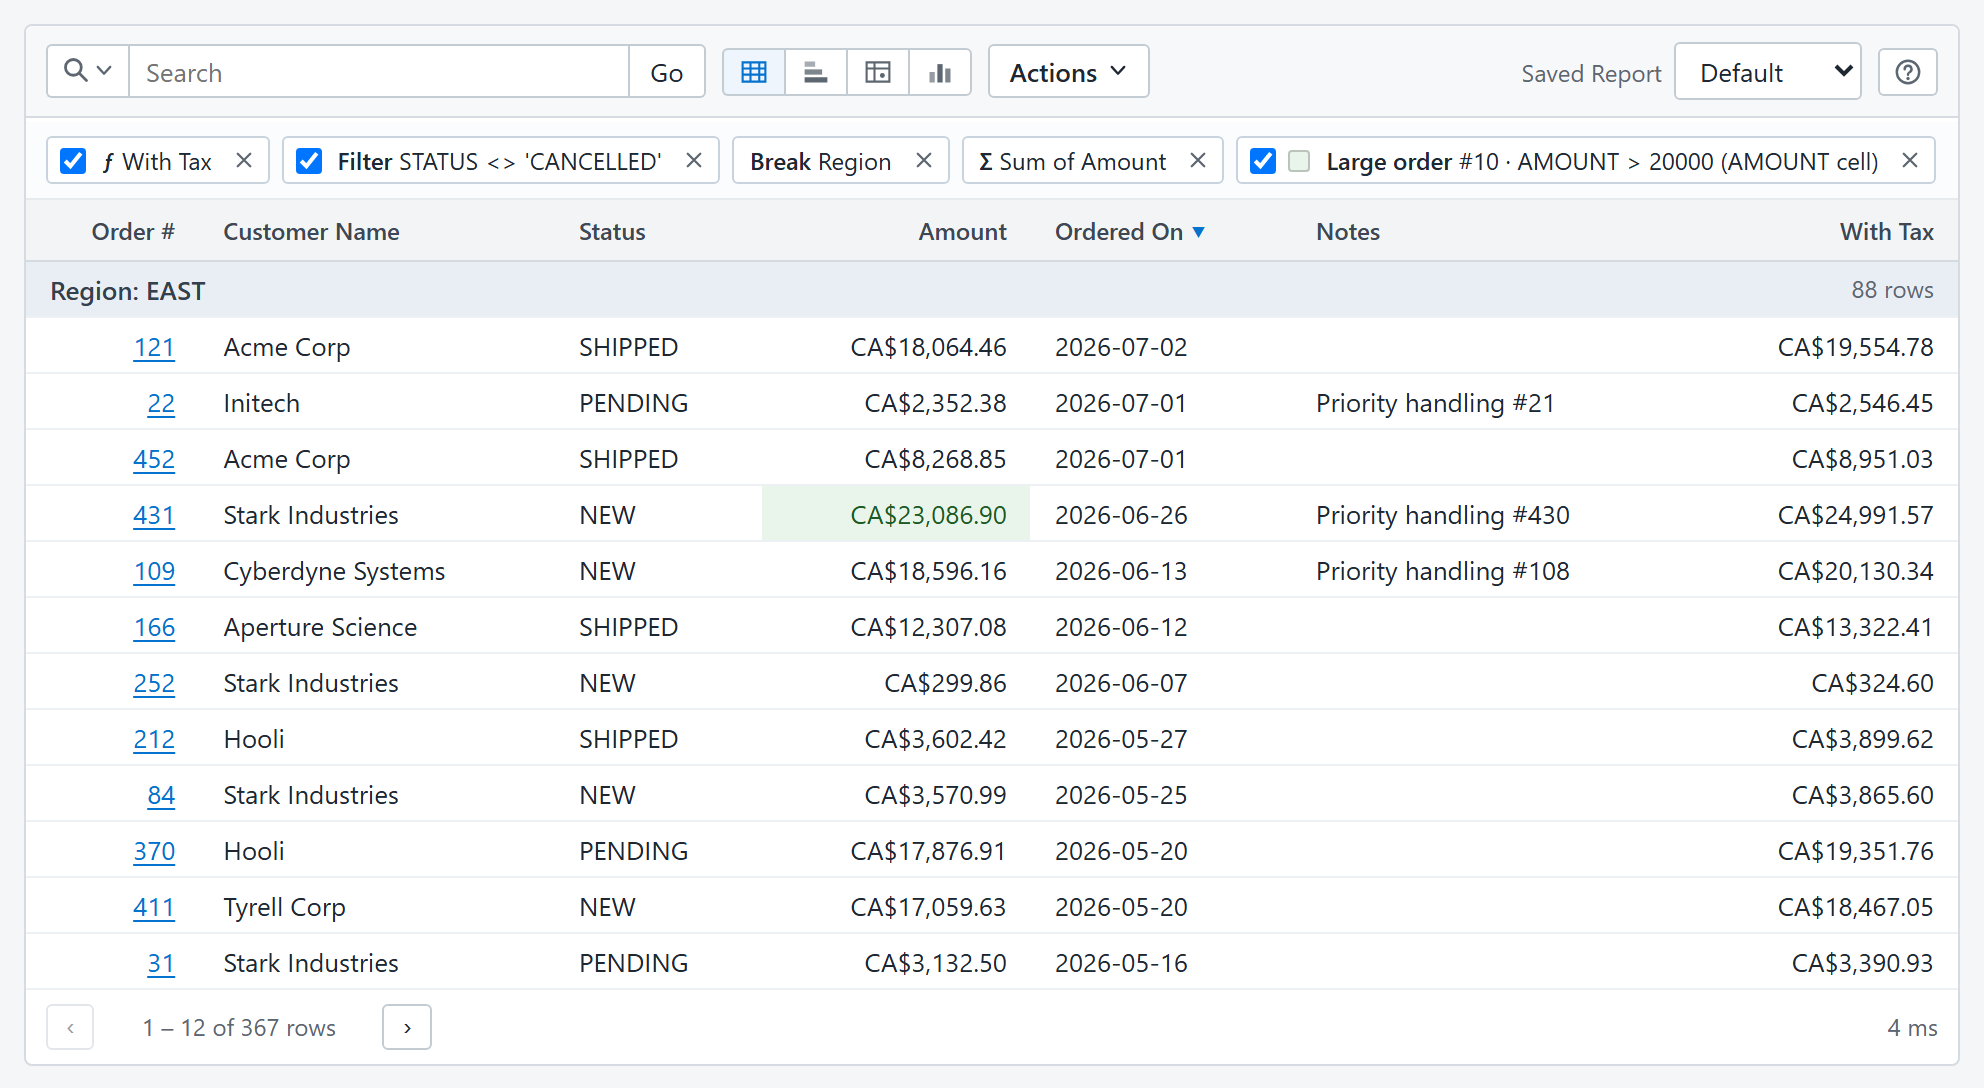
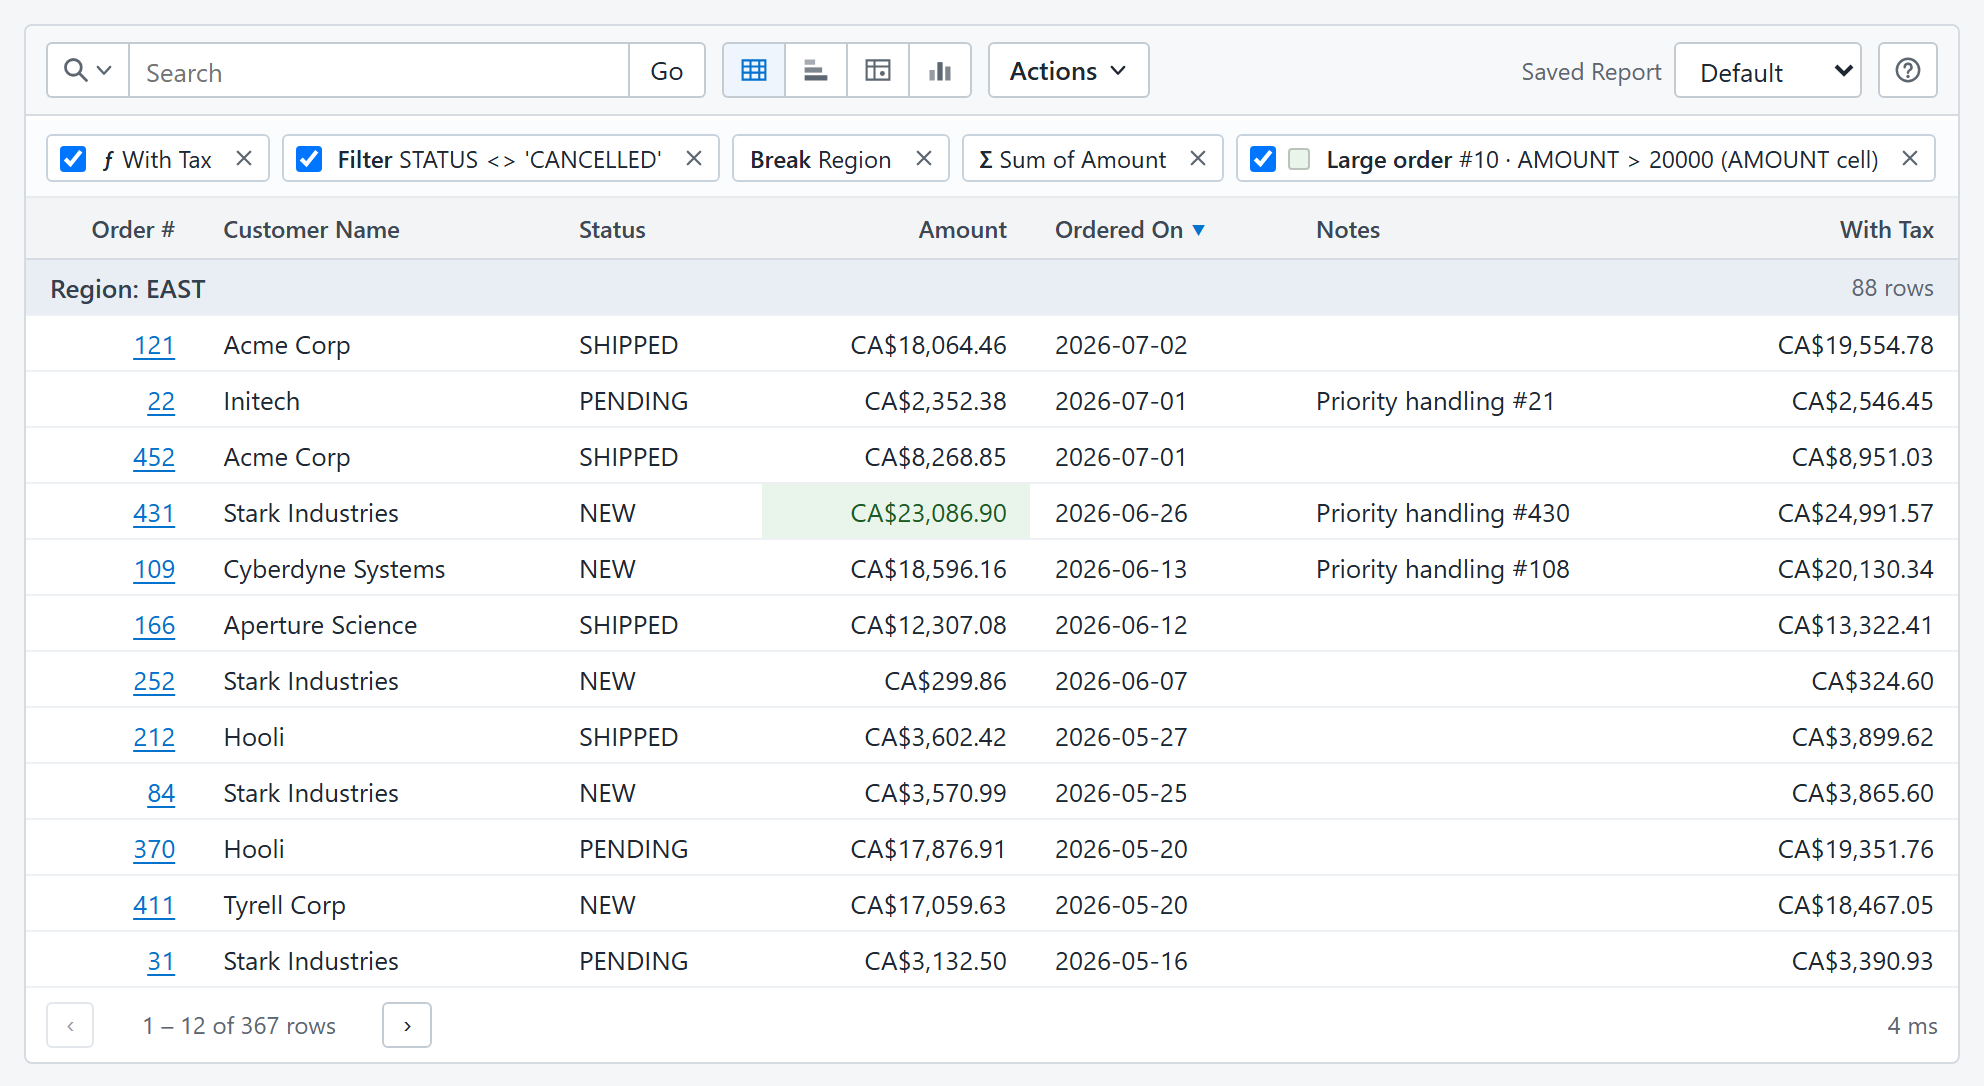
Prepare v0.9.1: screenshots, tests & TFM bumps
Bump project to v0.9.1 and update developer workflows. Add docs screenshot tooling (scripts/build-screenshots.mjs), integrate screenshot capture into help build, and add Windows/Linux badges. Revise package.json scripts (build:dotnet, build:screenshots, start, test:e2e/test:all, pack:nuget/release:nuget) and update PowerShell pack/release callers. Improve demo bundling with a sql.js shim. Bump Workbench and test projects to net10.0. Change in-memory saved-report store to track a default per-definition (plus server/listing adjustments) and add a test for per-report defaults. Minor CSS and demo HTML tweaks and several refreshed doc images.

diff --git a/src/client/ir.css b/src/client/ir.css
@@ -100,7 +100,13 @@
     border-radius: 4px 4px 0 0;
 }
 
-.ir-search { display: inline-flex; align-items: stretch; }
+.ir-toolbar .ir-btn,
+.ir-toolbar .ir-search-input,
+.ir-toolbar .ir-select {
+    height: max(28px, calc(var(--ir-font-size) * 1.35 + 10px));
+}
+
+.ir-search { display: inline-flex; align-items: stretch; margin: 0; }
 .ir-search .ir-search-scope {
     border-radius: var(--ir-radius) 0 0 var(--ir-radius);
     border-right: none;
@@ -119,14 +125,14 @@
 .ir-search .ir-go { border-radius: 0 var(--ir-radius) var(--ir-radius) 0; border-left: none; }
 
 .ir-viewbtns { display: inline-flex; }
-.ir-viewbtn { border-radius: 0; border-right-width: 0; color: var(--ir-text-muted); padding: 4px 8px; }
+.ir-viewbtn { border-radius: 0; border-right-width: 0; color: var(--ir-text-muted); padding: 4px 8px; justify-content: center; }
 .ir-viewbtn:first-child { border-radius: var(--ir-radius) 0 0 var(--ir-radius); }
 .ir-viewbtn:last-child { border-radius: 0 var(--ir-radius) var(--ir-radius) 0; border-right-width: 1px; }
 .ir-viewbtn[aria-pressed="true"] { background: var(--ir-accent-soft); color: var(--ir-accent); }
 
 .ir-actionsbtn { font-weight: 500; }
 .ir-spacer { flex: 1; }
-.ir-helpbtn { color: var(--ir-text-muted); padding: 4px 7px; }
+.ir-helpbtn { color: var(--ir-text-muted); padding: 4px 7px; justify-content: center; }
 .ir-helpbtn:hover:not(:disabled) { color: var(--ir-accent); }
 
 /* The Help window hosts the generated user guide, which carries its own .ir-help styles. */

diff --git a/src/browser-server/saved-reports.js b/src/browser-server/saved-reports.js
@@ -3,32 +3,36 @@
 
 export class EphemeralSavedReportStore {
     constructor() {
-        this.nextId = 2; // ID 1 reserved for default report
+        this.nextId = 1;
         /** @type {Map<number, object>} */
         this.reports = new Map();
-        /** @type {Set<string>} */
-        this.initializedReports = new Set();
+        /** @type {Map<string, number>} */
+        this.defaultReportIds = new Map();
     }
 
     /**
      * Ensures the default report is present for the given family.
      *
      * @param {string} reportName
+     * @param {object} [defaultState={}]
      */
-    ensureDefault(reportName) {
-        if (this.initializedReports.has(reportName.toLowerCase())) return;
-        this.initializedReports.add(reportName.toLowerCase());
+    ensureDefault(reportName, defaultState = {}) {
+        const key = String(reportName || "").toLowerCase();
+        if (this.defaultReportIds.has(key)) return;
+
+        const id = this.nextId++;
+        this.defaultReportIds.set(key, id);
 
         const defaultReport = {
-            id: 1,
+            id,
             reportName,
             title: "Default",
             isDefault: true,
             isGlobal: true,
             createdBy: "system",
-            state: {},
+            state: defaultState ? JSON.parse(JSON.stringify(defaultState)) : {},
         };
-        this.reports.set(1, defaultReport);
+        this.reports.set(id, defaultReport);
     }
 
     /**

diff --git a/tests/browser-server/server.test.js b/tests/browser-server/server.test.js
@@ -355,3 +355,25 @@ test("installFetchInterceptor routes /api/reports calls in-process", async () =>
         interceptor.uninstall();
     }
 });
+
+test("switching between multiple reports preserves default document for each", async () => {
+    const { server } = await setupServer();
+    server.registerReport({
+        name: "big-orders",
+        title: "Big Orders",
+        sql: "SELECT ORDER_ID, AMOUNT FROM ORDERS",
+    });
+
+    // 1. Initial list for orders has default
+    const ordersList1 = await server.handleRequest("/api/reports/orders").then(r => r.json());
+    assert.ok(ordersList1.some(r => r.isDefault && r.reportName === "orders"));
+
+    // 2. Switch to big-orders: has its own default
+    const bigList = await server.handleRequest("/api/reports/big-orders").then(r => r.json());
+    assert.ok(bigList.some(r => r.isDefault && r.reportName === "big-orders"));
+
+    // 3. Switch back to orders: must still have its default report!
+    const ordersList2 = await server.handleRequest("/api/reports/orders").then(r => r.json());
+    assert.ok(ordersList2.some(r => r.isDefault && r.reportName === "orders"));
+    assert.notEqual(ordersList1[0].id, bigList[0].id);
+});

diff --git a/src/browser-server/server.js b/src/browser-server/server.js
@@ -62,6 +62,7 @@ export class InteractiveReportServer {
         const key = def.name.toLowerCase();
         this.definitions.set(key, { ...def });
         this.schemaCache.delete(key);
+        this.savedReports.ensureDefault(def.name, def.defaultState);
     }
 
     /**
@@ -301,7 +302,7 @@ export class InteractiveReportServer {
             if (listMatch && method === "GET") {
                 const name = decodeURIComponent(listMatch[1]);
                 // If name is a registered definition or recognized family:
-                if (this.definitions.has(name.toLowerCase()) || this.savedReports.initializedReports.has(name.toLowerCase())) {
+                if (this.definitions.has(name.toLowerCase()) || this.savedReports.defaultReportIds.has(name.toLowerCase())) {
                     const list = this.savedReports.list(name);
                     return jsonResponse(list);
                 }

diff --git a/src/demo/index.html b/src/demo/index.html
@@ -134,9 +134,6 @@
                 Interactive Reports
                 <span class="badge">SQLite WASM (In-Browser)</span>
             </h1>
-            <p class="subtitle">
-                Pure client-side JavaScript port of the C# Interactive Reports server. No backend required.
-            </p>
         </div>
         <div class="controls">
             <label for="report-select"><strong>Report:</strong></label>

diff --git a/docs/DEVELOPING.md b/docs/DEVELOPING.md
@@ -1,27 +1,37 @@
 # Developing
 
 The client-side source is in `src/client`; generated browser assets are written to
-`src/InteractiveReport.Client.Json/Ui/dist` for embedding by the server project. Install
-the toolchain and create the browser bundles with:
+`src/InteractiveReport.Client.Json/Ui/dist` for embedding by the server project. With
+Node.js 20 or later and the .NET 10 SDK installed, install the dependencies and
+Playwright's Chromium browser, build the browser assets, packaged help, and .NET
+solution, then start Workbench with:
 
 ```sh
 npm ci
+npx playwright install chromium
 npm run build
+npm run start
 ```
 
-`npm run dev` rebuilds on changes. `npm test` builds the client and runs the fast
-DOM unit tests. Browser automation is configured with Playwright; install Chromium
-once with `npx playwright install chromium`, then run `npm run test:ui`.
-`npm run verify` runs both test layers.
+Workbench runs at `http://127.0.0.1:5042`; stop it with Ctrl+C.
+On Linux, replace the Playwright installation command with
+`npx playwright install --with-deps chromium` so Chromium's system libraries are
+installed as well. Windows and Linux both support the normal build, Workbench, and
+test workflows.
+
+`npm run start:dev` (or `npm run build:watch`) rebuilds on changes. `npm test` builds
+the client and runs the fast DOM unit tests and SQLite server tests. Browser automation
+is configured with Playwright; run `npm run test:e2e` for that layer.
+`npm run test:all` runs all test layers.
 
 The generated `src/InteractiveReport.Client.Json/Ui/dist/ir.js`, `ir-admin.js`, and
 `ir-chart.js` files are embedded in the ASP.NET Core assembly and are deliberately
 not committed. A source checkout must run the client build before a Release build,
 a pack, or a run of the packaged UI — `dotnet pack` and `dotnet build -c Release`
 fail with instructions when the bundles are missing, so a UI-less package cannot
-ship silently. `scripts/pack.ps1` (also `npm run pack`) chains the client build, the
-fast test layers, and `dotnet pack` for the five distributable projects into
-`artifacts/packages`; publishing beyond that is currently a manual
+ship silently. NuGet packaging is a Windows workflow. `scripts/pack.ps1` (also
+`npm run pack:nuget`) chains the client build, the fast test layers, and `dotnet pack`
+for the five distributable projects into `artifacts/packages`; publishing beyond that is currently a manual
 `dotnet nuget push` (release automation is deliberately still open).
 Package consumers never need Node.js. `ir-chart.js` (the Chart.js-based chart
 renderer) is fetched on demand the first time a report enters chart view; pages
@@ -29,7 +39,7 @@ that never chart never load it.
 
 ## Cutting a release locally
 
-`scripts/release.ps1` (also `npm run release`) runs the pack pipeline and drops a
+On Windows, `scripts/release.ps1` (also `npm run release:nuget`) runs the pack pipeline and drops a
 complete, versioned package set into `releases/<version>/`: the five `.nupkg` files,
 their `.snupkg` symbol packages, and a `SHA256SUMS.txt` manifest. The version comes
 from `Directory.Build.props`; pass `-Version 1.0.0-rc.1` to override it for one run,
@@ -43,13 +53,14 @@ GitHub release job is deliberately still open.
 The [User Guide](USER-GUIDE.md) is also the in-app help: `npm run build:help`
 (part of `npm run build`) renders it to `Ui/dist/help.<locale>.html` with the
 screenshots inlined as lossless WebP, and the report's **?** button opens that page in
-a window. Regenerate the screenshots from the live Workbench with:
+a window. Regenerate the screenshots from a temporary Workbench instance with:
 
 ```sh
-dotnet run --project samples/Workbench --urls http://127.0.0.1:5042
-npm run docs:screenshots
+npm run build:screenshots
 ```
 
-The script drives the packaged viewer with Playwright, widens the window until the
-toolbar fits on one row, adds the numbered callouts, and writes `docs/images/*.png`.
-Run `npm run build:help` afterwards so the packaged help page picks up the new images.
+The command starts Workbench, waits for it to accept requests, drives the packaged
+viewer with Playwright, and stops Workbench even when capture fails. The capture widens
+the window until the toolbar fits on one row, adds the numbered callouts, and writes
+`docs/images/*.png`. `npm run build:help` performs the same capture before rebuilding
+the packaged help pages.

diff --git a/docs/ARCHITECTURE.md b/docs/ARCHITECTURE.md
@@ -81,14 +81,16 @@ the portability surface.
 | `tests/InteractiveReport.Core.Tests` | Composer golden tests (state doc → expected SQL, ×4 dialects), expression parser tests, SQLite end-to-end integration tests. |
 | `tests/InteractiveReport.AspNetCore.Tests` | HTTP, saved-report, authorization, configured-document, and GraphQL transport integration tests. |
 
-Target framework: `net8.0` (Umbraco 13 LTS floor; builds under SDK 8/10). Package
-dependencies pin 8.0.x for the same reason. Shared NuGet metadata (MIT, repo URL,
+The five distributable projects target `net8.0`, the Umbraco 13 LTS floor. The
+non-shipping Workbench and test projects target `net10.0`, matching the development
+SDK without raising the deployment requirement. Shared NuGet metadata (MIT, repo URL,
 Source Link, snupkg symbols, version) lives in the root `Directory.Build.props`;
-`scripts/pack.ps1` (`npm run pack`) builds the client bundles, runs the fast test
+`scripts/pack.ps1` (`npm run pack:nuget`) builds the client bundles, runs the fast test
 layers, and packs the five `src/` projects — an MSBuild guard fails Release builds
 and packs when `Ui/dist` is empty, so a UI-less package cannot ship. Publish
-automation is deliberately undecided (owner discussion pending); packing is the
-scripted boundary today.
+automation is deliberately undecided (owner discussion pending); Windows packaging is
+the scripted release boundary today, while ordinary development supports Windows and
+Linux.
 
 ## 4. Report definitions
 
@@ -1507,7 +1509,7 @@ packaged elements used by real applications, styled after APEX's Interactive Rep
   `locales/` contains the key-aligned English and Canadian French UI and error catalogs.
   Feature modules are free functions over the widget instance `w` — nothing
   imports the element class except its entry, so the graph stays acyclic.
-  `npm run build` uses esbuild to compile the stylesheet and modules into three
+  `npm run build:client` uses esbuild to compile the stylesheet and modules into three
   self-contained entry bundles in `Ui/dist`. The generated assets are ignored;
   `scripts/pack.ps1` builds them before packing, and an MSBuild guard fails
   Release builds and packs when they are missing — package consumers do not
@@ -1850,7 +1852,7 @@ packaged elements used by real applications, styled after APEX's Interactive Rep
 | POST-primary protocol | GET + querystring state | State size; filter values leak into logs via GET; deep links return later as saved-state ids. |
 | Rows as JSON objects | Positional arrays | Page-granularity size difference is negligible; consumption ergonomics win. |
 | Highlight predicates push down as private booleans; Pivot emits portable grouped/conditional SQL | Interpret expressions in C# or use native PIVOT | Filters and highlights share one typed predicate implementation; private markers are removed before the response. A Pivot remains a child-wrappable relation without admitting four incompatible native PIVOT dialects. |
-| `net8.0` | `net10.0` | Umbraco 13 LTS floor; SDK 8 present; bump is cheap later. |
+| Distributable projects target `net8.0`; Workbench and tests target `net10.0` | Target everything uniformly | The package remains compatible with the Umbraco 13 LTS floor while development requires only the current SDK and runtime. |
 | whoami off by default | always on | It's an information endpoint; enabling is a deliberate operator act (samples enable it). |
 | Identity and owner matching is ordinal and case-sensitive | case-fold identity values | Identity-provider subjects are opaque; folding can merge distinct principals. |
 | Report-document ids are database-generated numeric identities | client-generated text ids | Numeric ids give database and configured-file rows one stable endpoint identity. Client-created transient documents may omit an id because processing routes use the configured definition key and submitted document. |

diff --git a/README.md b/README.md
@@ -9,6 +9,8 @@
   <a href="LICENSE"><img alt="MIT license" src="docs/images/badge-license.svg"></a>
   <img alt=".NET 8" src="docs/images/badge-dotnet.svg">
   <img alt=".NET 10" src="docs/images/badge-dotnet-10.svg">
+  <img alt="Windows supported" src="docs/images/badge-windows.svg">
+  <img alt="Linux supported" src="docs/images/badge-linux.svg">
   <img alt="Databases" src="docs/images/badge-databases.svg">
   <a href="https://interactive-report.pages.dev/"><img alt="Live Demo" src="docs/images/badge-demo.svg"></a>
 </p>
@@ -109,14 +111,19 @@ saved-report storage, the administration page, authorization, and the rest.
 ## Developing
 
 ```sh
-npm ci && npm run build      # browser bundles and the packaged help page
+npm ci
+npx playwright install chromium  # on Linux, use: npx playwright install --with-deps chromium
+npm run build && npm run start  # build everything, then launch Workbench
 npm run build:demo           # standalone in-browser demo for Cloudflare Pages
-dotnet run --project samples/Workbench
+npm run start:demo           # launch local web server for the in-browser demo
 ```
 
-The Workbench at `http://localhost:5042` hosts every packaged page against a seeded
-SQLite database. `npm test` runs the client unit tests and `npm run verify` adds the
-Playwright suite; `dotnet test` covers the server. See [Developing](docs/DEVELOPING.md).
+The developer prerequisites are Node.js 20 or later, the .NET 10 SDK, and Playwright's
+Chromium browser. Normal development is supported on Windows and Linux; creating NuGet
+and release artifacts is a Windows workflow. The Workbench at `http://localhost:5042`
+hosts every packaged page against a seeded SQLite database. `npm test` runs the unit and
+SQLite server tests and `npm run test:all` adds the Playwright suite; `dotnet test`
+covers the server. See [Developing](docs/DEVELOPING.md).
 
 ## License
 

diff --git a/tests/ui/e2e/README.md b/tests/ui/e2e/README.md
@@ -23,5 +23,5 @@ states so adversarial and deep table graphs still load through the public persis
 each scenario deletes its state in `finally` and remains safe under parallel execution.
 
 ```sh
-npm run test:ui
+npm run test:e2e
 ```

diff --git a/docs/TESTING.md b/docs/TESTING.md
@@ -32,7 +32,7 @@ browser once, then run the browser suite:
 
 ```sh
 npx playwright install chromium
-npm run test:ui
+npm run test:e2e
 ```
 
 The configuration starts `samples/Workbench` on `http://127.0.0.1:5042`, reuses a
